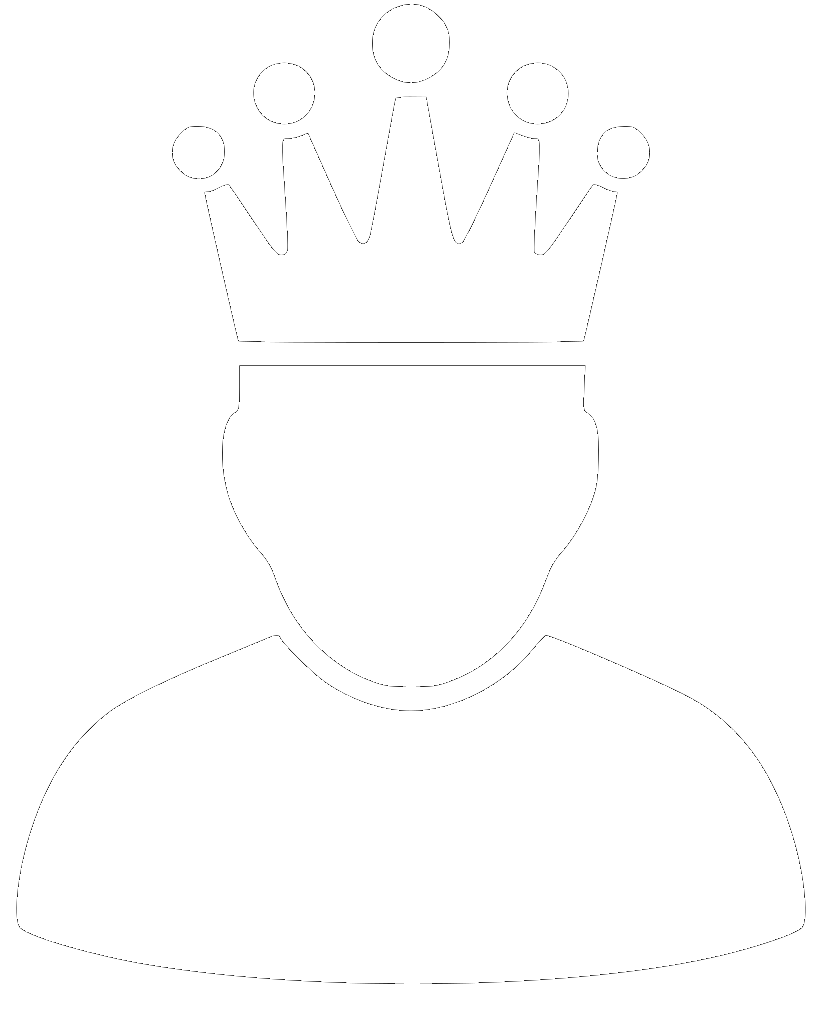
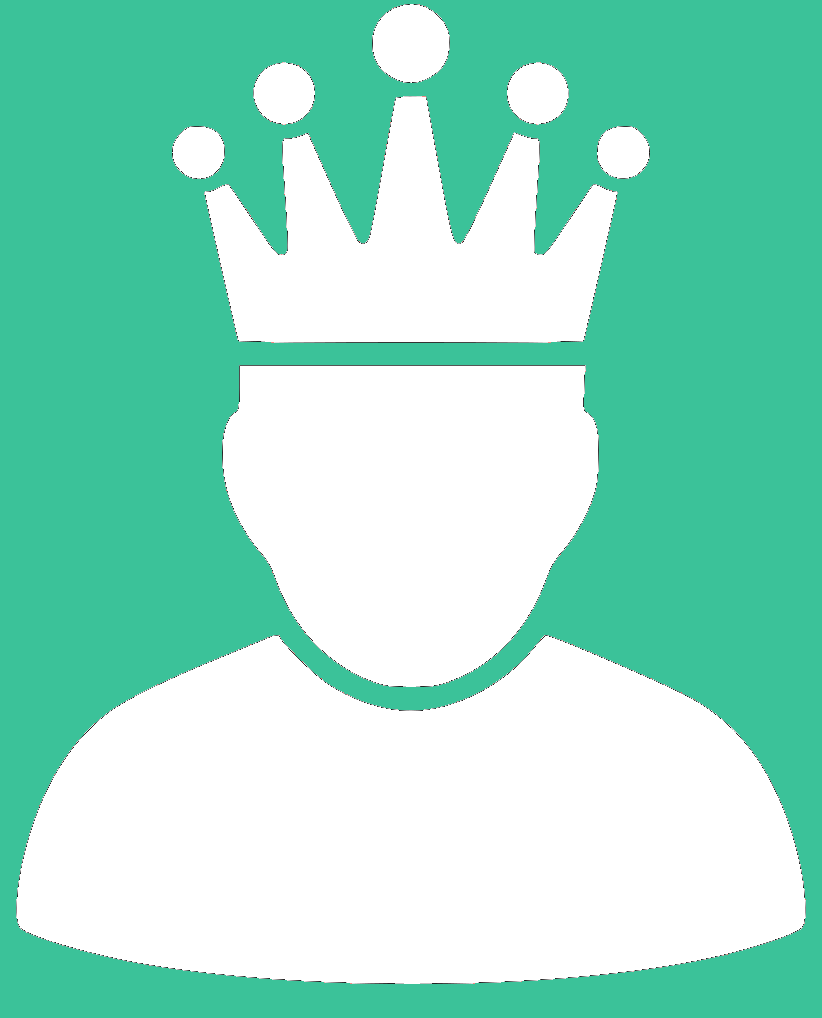
Some visual changes

diff --git a/style.css b/style.css
@@ -3,6 +3,7 @@
     padding: 0;
     font-family: 'Roboto', sans-serif;
     color: rgb(222, 234, 245);
+    overflow: hidden
 
 }
 
@@ -10,42 +11,66 @@
     width: 100%;
     background-color: rgb(16, 148, 108);
     text-align: center;
+    position: relative;
+    z-index: 6;
 }
 
 #left{
-    width: 20vw;
+    width: 20%;
     background-color: rgb(64, 219, 173);
     float: left;
 }
 
 #right{
-    width: 20vw;
+    width: 20%;
     background-color: rgb(64, 219, 173);
     float: left;
-}
-
-#mid{
-    width: 60vw;
-    background-color: rgb(59, 194, 153);
-    float: left;
-    z-index: 3;
-    
 }
 #footer{
     clear: both;
 }
 
+#mid{
+    width: 60%;
+    background-color: #3bc299;
+    float: left;
+    z-index: 3;
+    position: relative;
+}
+
+
 #kingIcon{
-    margin-top: 20px;
+    
     z-index: 5;
     width: 60%;
-
+    position: relative;
+    left: 20%;
+    
 }
 
 #kingIconBack{
-    margin-top: 20px;
     z-index: 4;
-    width: 60%;
-    margin-left: -50%;
-    
+    position: relative;
+    left: 20%;
+    top: -860px
+}
+
+
+/* treść komentarza, ignorowana przez przegladarkę internetową */
+
+input[type=text]{
+    width: 100%;
+    border: 2px solid #aaa;
+    border-radius: 4px;
+    margin: 8px 0;
+    outline: none;
+    padding: 8px;
+    box-sizing: border-box;
+    transition: .3s;
+    color: black;
+}
+
+input[type=text]:focus{
+    border-color: red;
+    box-shadow: 0 0 8px 0 red;
 }

diff --git a/index.html b/index.html
@@ -14,13 +14,16 @@
         <h1><a href="https://github.com/Kimi82/HowLazyAreYou">Download this site from GitHub <i class="fab fa-github"></i></a></h1>  
         </div>
       
-        <div id="left">TUTAJ LEWO lorem</div>
+        <div id="left">
+          <input type="text" placeholder="WPISZ COŚ">
+          
+        </div>
         <div id="mid">
-         <center> <div id="kingIcon"><img src="krolPrzezroczysty.png" width="100%"  alt="kingIcon">
-                    <div id="kingIconBack"><img src="gradient.png" > </div>
-                  </div>
-                  
-        </center>
+          <div id="kingIcon"><img src="krolPrzezroczysty.png" width="100%"  alt="kingIcon"></div>
+          
+          <div id="kingIconBack"><img src="gradient.png" width="60%"  > </div>
+
+          
         </div>
         <div id="right">TUTAJ PRAWO</div>
 

diff --git a/app.js b/app.js
@@ -1,6 +1,3 @@
 //musi być pod ikonka krola
 //<div>Icon made from <a href="http://www.onlinewebfonts.com/icon">Icon Fonts</a> is licensed by CC BY 3.0</div>
 
-<script src="https://code.jquery.com/jquery-3.3.1.slim.min.js" integrity="sha384-q8i/X+965DzO0rT7abK41JStQIAqVgRVzpbzo5smXKp4YfRvH+8abtTE1Pi6jizo" crossorigin="anonymous"></script>
-<script src="https://cdnjs.cloudflare.com/ajax/libs/popper.js/1.14.7/umd/popper.min.js" integrity="sha384-UO2eT0CpHqdSJQ6hJty5KVphtPhzWj9WO1clHTMGa3JDZwrnQq4sF86dIHNDz0W1" crossorigin="anonymous"></script>
-<script src="https://stackpath.bootstrapcdn.com/bootstrap/4.3.1/js/bootstrap.min.js" integrity="sha384-JjSmVgyd0p3pXB1rRibZUAYoIIy6OrQ6VrjIEaFf/nJGzIxFDsf4x0xIM+B07jRM" crossorigin="anonymous"></script>
